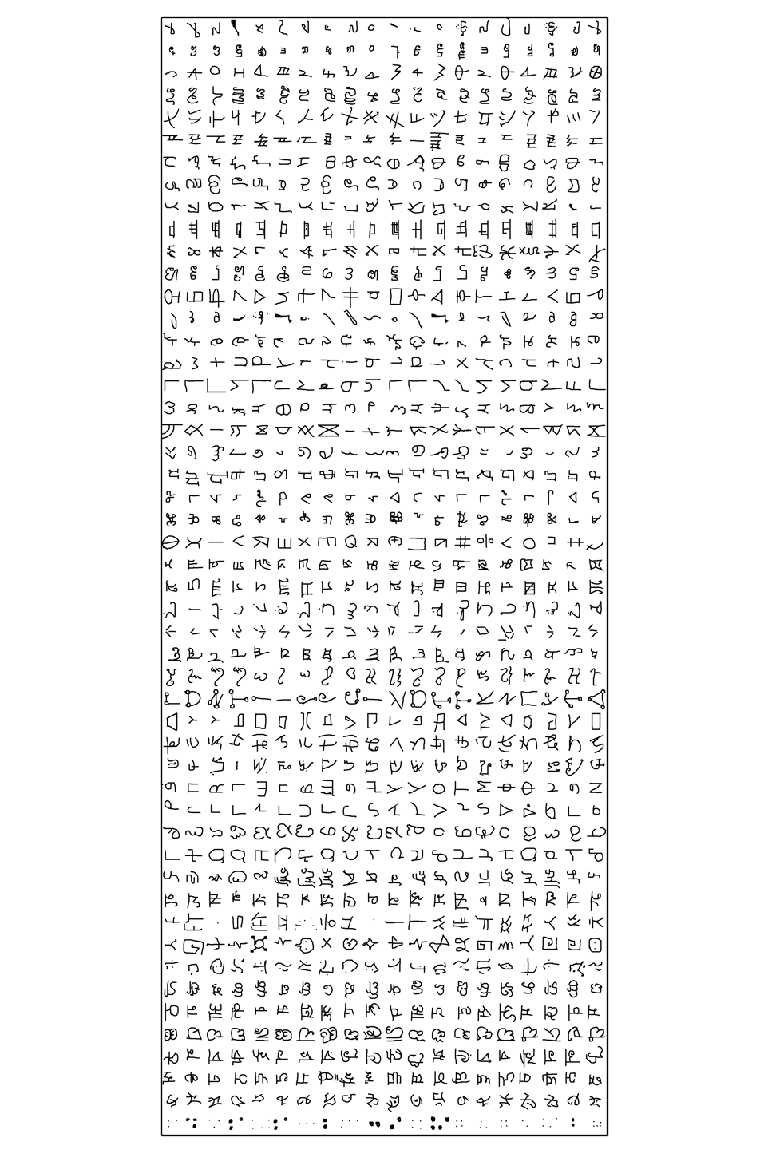
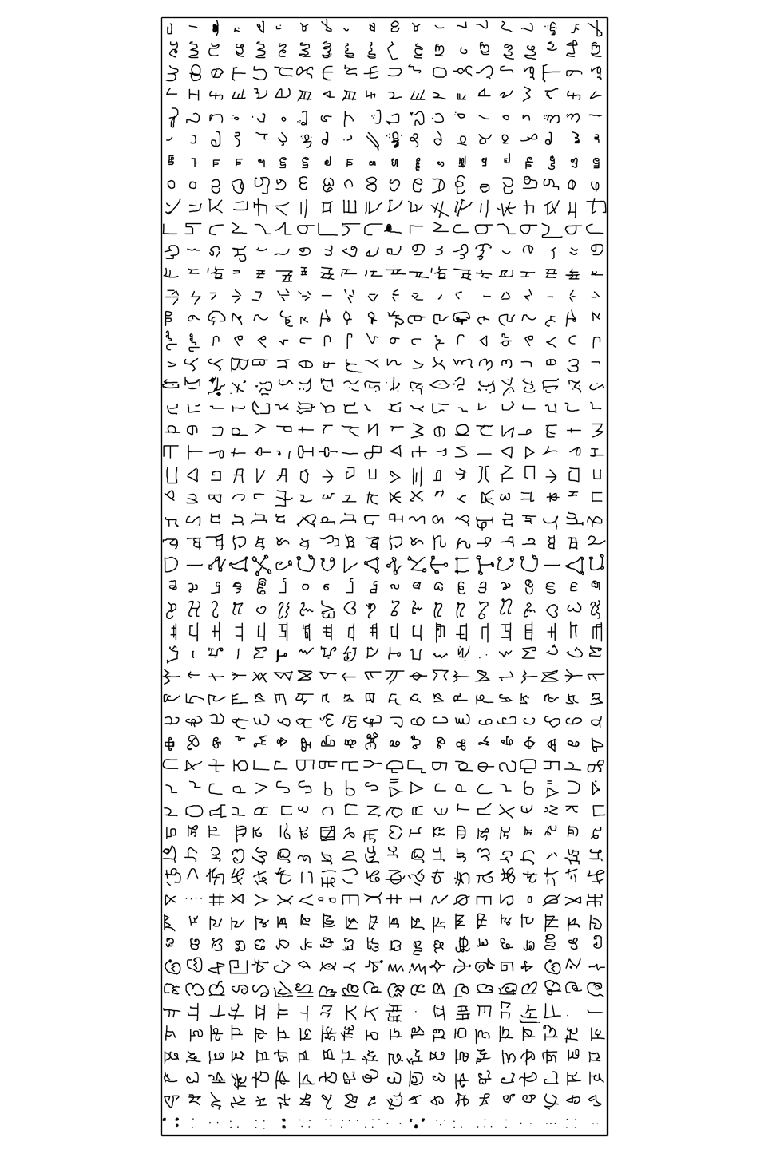
Ten-alphabet omniglot

Changed region(s): [[0.2188, 0.0, 0.7812, 0.9688]]

diff --git a/experiments/Feb_1_learning_alphabet_corr/6/experiment.py b/experiments/Feb_1_learning_alphabet_corr/6/experiment.py
@@ -19,7 +19,7 @@ VERBOSE = True
 layer_sizes = [784, 300, 200, 55]
 # layer_sizes = [784, 400, 200, 55]
 N_layers = len(layer_sizes) - 1
-N_scripts = 50
+N_scripts = 10
 N_iters = 50
 N_thin = 10
 alpha = 1.0
@@ -31,7 +31,7 @@ log_initialization_scale = -2.0
 log_L2_init = -4.0
 script_corr_init = 0.5
 N_meta_iter = 10
-meta_alpha = 0.1
+meta_alpha = 0.2
 
 # TEST RUN:
 # N_scripts = 5
@@ -44,8 +44,7 @@ def run():
     script_parser[i_script]       : weights vector for each script
     transform_parser[i_layer]     : transform matrix (scripts x scripts) for each alphabet"""
     RS = RandomState((seed, "top_rs"))
-    train_data, valid_data, tests_data = omniglot.load_data_split(
-        [11, 2, 2], RS, num_alphabets=N_scripts)
+    train_data, valid_data, tests_data = omniglot.load_curated_alphabets([11, 2, 2], RS)
     w_parser, pred_fun, loss_fun, frac_err = make_nn_funs(layer_sizes)
     N_weights = w_parser.vect.size
     transform_parser = make_transform(N_scripts, script_corr_init)
@@ -134,7 +133,7 @@ def covar_to_corr(A):
     return (A / (A_std[:, None] * A_std[None, :]))
 
 def plot():
-    from hypergrad.omniglot import show_all_alphabets
+    from hypergrad.omniglot import show_all_alphabets, show_curated_alphabets
     import matplotlib.pyplot as plt
     import matplotlib as mpl
     from spectral_clustering.spclust import find_blockifying_perm
@@ -159,8 +158,8 @@ def plot():
     covar_baseline = dictmap(T_to_covar, T_baseline)
     covar_learned  = dictmap(T_to_covar, T_learned)
 
-    # covar_baseline = dictmap(covar_to_corr, covar_baseline)
-    # covar_learned  = dictmap(covar_to_corr, covar_learned)
+    covar_baseline = dictmap(covar_to_corr, covar_baseline)
+    covar_learned  = dictmap(covar_to_corr, covar_learned)
 
     covar_baseline = dictmap(np.abs, covar_baseline)
     covar_learned  = dictmap(np.abs, covar_learned)
@@ -169,14 +168,18 @@ def plot():
     # npr.seed(1)
     # perm = find_blockifying_perm(covar_learned[0], 10, 3)
 
-    # Sort by magnitude
-    perm = np.argsort(np.sum(covar_learned[0], axis=0))
+    # # Sort by magnitude
+    # perm = np.argsort(np.sum(covar_learned[0], axis=0))
 
-    def permute_array(A):
-        return A[np.ix_(perm, perm)]
-    show_all_alphabets(perm)
-    covar_baseline = dictmap(permute_array, covar_baseline)
-    covar_learned  = dictmap(permute_array, covar_learned)
+    # Don't sort
+    perm = range(N_scripts)
+
+    show_curated_alphabets()
+    # def permute_array(A):
+    #     return A[np.ix_(perm, perm)]
+    # show_all_alphabets(perm)
+    # covar_baseline = dictmap(permute_array, covar_baseline)
+    # covar_learned  = dictmap(permute_array, covar_learned)
 
     all_baseline = np.concatenate([covar_baseline[i] for i in range(N_layers)], axis=0)
     all_learned  = np.concatenate([covar_learned[i]  for i in range(N_layers)], axis=0)

diff --git a/hypergrad/omniglot.py b/hypergrad/omniglot.py
@@ -2,13 +2,13 @@ import scipy.io
 import numpy as np
 import pickle
 import os
+import numpy.random as npr
 
 from hypergrad.util import dictslice
-
-
 NUM_CHARS = 55
 NUM_ALPHABETS = 50
 NUM_EXAMPLES = 15
+CURATED_ALPHABETS = [6, 10, 23, 38, 39, 8, 9, 21, 22, 41]
 
 def datapath(fname):
     datadir = os.path.expanduser('~/repos/hypergrad/data/omniglot')
@@ -39,6 +39,13 @@ def load_data(alphabets_to_load=range(NUM_ALPHABETS)):
 def load_data_split(num_chars, RS, num_alphabets=NUM_ALPHABETS):
     alphabets_to_load = RS.choice(range(NUM_ALPHABETS), size=num_alphabets, replace=False)
     raw_data = load_data(np.sort(alphabets_to_load))
+    shuffled_data = [shuffle(alphabet, RS) for alphabet in raw_data]
+    data_split = zip(*[split(alphabet, num_chars) for alphabet in shuffled_data])
+    normalized_data = [subtract_mean(data_subset) for data_subset in data_split]
+    return normalized_data
+
+def load_curated_alphabets(num_chars):
+    raw_data = load_data(CURATED_ALPHABETS)
     shuffled_data = [shuffle(alphabet, RS) for alphabet in raw_data]
     data_split = zip(*[split(alphabet, num_chars) for alphabet in shuffled_data])
     normalized_data = [subtract_mean(data_subset) for data_subset in data_split]
@@ -98,15 +105,18 @@ def show_all_chars():
         ax.set_title("Alphabet {0}, chars {1}".format(i_alphabet, char_ids))
     plt.savefig("random_images.png")
 
+def show_curated_alphabets():
+    show_all_alphabets(CURATED_ALPHABETS)
+
 def show_all_alphabets(perm=None):
     if perm is None:
-        perm = range(NUM_ALPHABETS)
+        perm = range(len(alphabets))
     import matplotlib as mpl
     import matplotlib.pyplot as plt
     from nn_utils import plot_images
-    alphabets = load_data()
     n_cols = 20
     full_image = np.zeros((0, n_cols * 28))
+    alphabets = load_data()
     for i_alphabet in perm:
         alphabet = alphabets[i_alphabet]
         char_idxs = np.random.randint(alphabet['X'].shape[0], size=n_cols)
